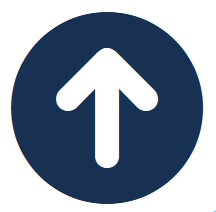
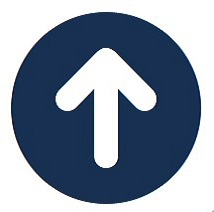
actualizacion general - 11-2-2022

diff --git a/css/main.css b/css/main.css
@@ -105,7 +105,7 @@ li {
 #scrollUp {
   border-radius: 50%;
   bottom: 8em;
-  right: 2em;
+  right: 1.8em;
   width: 4em;
   height: 4em;
   background: url("/src/multimedia/images/upArrow.jpg");
@@ -118,7 +118,7 @@ li {
   -ms-grid-column: 1;
   -ms-grid-column-span: 3;
   grid-area: header;
-  padding: 0.5em;
+  padding: 0.6em 1.5em;
   background: linear-gradient(135deg, #212c72 0%, #22398c 40%, #21459b 100%);
   display: -webkit-box;
   display: -ms-flexbox;
@@ -132,6 +132,11 @@ li {
   /* Extra large devices (large desktops, 1200px and up) */
   /* Large devices (desktops, 992px and up) */
   /* Medium devices (tablets, 768px and up) The navbar toggle appears at this breakpoint */
+}
+
+.header .navbar {
+  padding-top: 0;
+  padding-bottom: 0;
 }
 
 .header .navbar-light .navbar-nav .nav-link:hover {
@@ -192,10 +197,13 @@ li {
   .header #btnResponsive {
     color: #ffffff;
     background-color: #ffffff;
+    -webkit-box-shadow: 2px 2px 4px 1px #444;
+            box-shadow: 2px 2px 4px 1px #444;
+    margin-right: 0.5em;
   }
   .header #btnResponsive:hover {
-    -webkit-box-shadow: 0 0 2em 6px #eb6ee1bd;
-            box-shadow: 0 0 2em 6px #eb6ee1bd;
+    -webkit-box-shadow: 0 0 10px 2px #eb6ee1bd;
+            box-shadow: 0 0 10px 2px #eb6ee1bd;
   }
   .header .navbar-nav .dropdown-menu {
     width: 16em;
@@ -218,9 +226,9 @@ li {
 }
 
 .header .header__logo {
-  max-width: 5em;
-  min-width: 3em;
-  min-height: 3em;
+  max-width: 4em;
+  min-width: 2.6em;
+  min-height: 2.6em;
   margin: auto;
   color: #ffffff;
   -webkit-transition: all 1s ease-in-out;
@@ -234,9 +242,9 @@ li {
 
 @media screen and (max-width: 768px) {
   .header .header__logo {
-    max-width: 4em;
-    min-width: 2em;
-    min-height: 2em;
+    max-width: 3em;
+    min-width: 1.8em;
+    min-height: 1.8em;
   }
 }
 
@@ -602,12 +610,13 @@ li {
   line-height: 1.5em;
   color: #eee;
   margin-top: 1.5em;
-  margin-bottom: 1.5em;
+  margin-bottom: 1em;
 }
 
 .contenedor .sidebar .sidebar__contenedor .sidebar__bio .sidebar__parrafo {
   font-size: .85em;
   line-height: 2em;
+  margin-bottom: 2em;
 }
 
 .contenedor .sidebar .sidebar__menu {
@@ -729,7 +738,7 @@ li {
   display: grid;
   -ms-grid-columns: (1fr)[4];
       grid-template-columns: repeat(4, 1fr);
-  grid-auto-rows: 14em;
+  grid-auto-rows: 16em;
   padding: 1em;
   grid-gap: 1em;
   margin-bottom: 14em;
@@ -741,7 +750,7 @@ li {
   .contenedor__productos .productos .galeria-container {
     -ms-grid-columns: (1fr)[3];
         grid-template-columns: repeat(3, 1fr);
-    grid-auto-rows: 12em;
+    grid-auto-rows: 14em;
     grid-gap: 0.85em;
   }
   .contenedor__productos .productos .galeria-container .galeria__item:nth-child(1) {
@@ -782,7 +791,7 @@ li {
   .contenedor__productos .productos .galeria-container {
     -ms-grid-columns: (1fr)[2];
         grid-template-columns: repeat(2, 1fr);
-    grid-auto-rows: 10em;
+    grid-auto-rows: 12em;
     grid-gap: 0.6em;
   }
   .contenedor__productos .productos .galeria-container .galeria__item:nth-child(1) {
@@ -1393,11 +1402,12 @@ li {
 }
 
 .contenedor__contacto .contacto .itemsContacto--title i {
-  margin-right: 1.5em;
+  margin-right: 1.25em;
+  font-size: 1.25em;
 }
 
 .contenedor__contacto .contacto .itemsContacto--title--redes {
-  font-size: 1.2em;
+  font-size: 1.5em;
   color: #000000;
 }
 

diff --git a/src/paginas/contacto.html b/src/paginas/contacto.html
@@ -105,10 +105,10 @@
                             </h2>
                             <div id="collapseOne" class="accordion-collapse collapse show" aria-labelledby="headingOne"
                                 data-bs-parent="#accordionExample">
-                                <div class="accordion-body">
-                                    <div class="container my-3 mx-auto">
+                                <div class="accordion-body px-1">
+                                    <div class="container my-3 mx-1">
                                         <h3 class="itemsContacto--title"><i class="fas fa-map-marked-alt"></i> Av. Japón
-                                            2230 / CP 5008 - Córdoba / Argentina</h3>
+                                            2230 - CP5008 - Córdoba - Argentina</h3>
                                         <h3 class="itemsContacto--title"><i class="fas fa-phone"></i> Telefono: +54
                                             (0351) 499 5921</h3>
                                         <h3 class="itemsContacto--title"><i class="fas fa-at"></i> prodismo@prodismo.com
@@ -131,8 +131,7 @@
                             </div>
                         </div> <!-- /Datos de Contacto -->
 
-                        <div class="accordion-item">
-                            <!-- Formulario Contacto-->
+                        <div class="accordion-item"><!-- Formulario Contacto-->
                             <h2 class="accordion-header" id="headingOne">
                                 <button class="accordion-button" type="button" data-bs-toggle="collapse"
                                     data-bs-target="#collapseTwo" aria-expanded="false" aria-controls="collapseTwo">
@@ -236,7 +235,7 @@
                                             </div>
 
                                             <div class="form-group">
-                                                <div class="d-grid gap-2 mx-5 m-3">
+                                                <div class="d-grid gap-2 mx-3 m-3">
                                                     <button type="submit"
                                                         class="d-block mx-5 p-2 btn btn-primary">Enviar <i
                                                             class="fas fa-paper-plane"></i></button>

diff --git a/css/parciales/_header.scss b/css/parciales/_header.scss
@@ -3,7 +3,7 @@
 
 .header {
 	grid-area: header;
-	padding: 0.5em;
+	padding: 0.6em 1.5em;
 	background: $colorHeader;
 	display: flex;
 	position: sticky;
@@ -11,6 +11,11 @@
     left: 0;
     z-index: 100;
 	width: 100%;
+
+    .navbar {
+        padding-top: 0;
+        padding-bottom: 0;
+    }
 
     .navbar-light .navbar-nav .nav-link:hover {
         background-image: linear-gradient(180deg, transparent 90%, $colorHoverLink 100%);
@@ -52,7 +57,6 @@
 		.nav-item--oculto {
 				display: none;
 		}
-
     }
 
     @include tablets {
@@ -69,10 +73,12 @@
         #btnResponsive {
             color: $blanco;
             background-color: $blanco;
+            box-shadow: 2px 2px 4px 1px #444;
+            margin-right: 0.5em;
         }
 
         #btnResponsive:hover {
-            box-shadow: 0 0 2em 6px $colorHoverLink;
+            box-shadow: 0 0 10px 2px $colorHoverLink;
         }
 
         .navbar-nav .dropdown-menu {
@@ -95,13 +101,12 @@
             margin-right: -1px;
             background-image: linear-gradient(45deg, transparent 40%, $colorHoverLink 100%);
         }
-        
     }
 	
     .header__logo {
-        max-width: 5em;
-        min-width: 3em;
-        min-height: 3em;
+        max-width: 4em;
+        min-width: 2.6em;
+        min-height: 2.6em;
         margin: auto;
         color: $blanco;
         transition: all 1s ease-in-out;
@@ -111,14 +116,13 @@
         }
 
         @include tablets {
-            max-width: 4em;
-            min-width: 2em;
-            min-height: 2em;
+            max-width: 3em;
+            min-width: 1.8em;
+            min-height: 1.8em;
         }
     }
     
     .header__logo:hover {
         transform: scale(1.2);
     }
-
 }

diff --git a/index.html b/index.html
@@ -229,12 +229,14 @@
 				</a>
 
 				<div class="sidebar__bio">
-					<p class="sidebar__titulo">Somos Prodismo<br>Somos Desafío<br>Somos Tecnología<br>Somos Innovación
-					</p>
+					<p class="sidebar__titulo">Somos Prodismo<br>Somos Innovación</p>
 					<p class="sidebar__parrafo">
 						En Prodismo, impulsamos constantemente la innovación, investigación y desarrollo, en busca de
 						nuevos productos y servicios con tecnología de punta, que brinden soluciones para la
-						industria metalmecanica y en general.
+						industria metalmecánica y en general.
+					</p>
+					<p class="sidebar__titulo">Somos Tecnología<br>Somos Desafío</p>
+					<p class="sidebar__parrafo">
 						Contamos con equipos propios para la búsqueda y prueba incesante de nuevas ideas, exploración de
 						tecnologías de última generación, desarrollo de prototipos, ensayos funcionales. Nuestros
 						técnicos brindan formación especializada a personal interno y a clientes.

diff --git a/css/parciales/productos/_productos.scss b/css/parciales/productos/_productos.scss
@@ -45,14 +45,14 @@
         .galeria-container {
             display: grid;
             grid-template-columns: repeat(4, 1fr);
-            grid-auto-rows: 14em;
+            grid-auto-rows: 16em;
             padding: 1em;
             grid-gap: 1em;
             margin-bottom: 14em;
             
             @include desktops {
                 grid-template-columns: repeat(3, 1fr);
-                grid-auto-rows: 12em;
+                grid-auto-rows: 14em;
                 grid-gap: 0.85em;
 
                 .galeria__item:nth-child(1) {
@@ -88,7 +88,7 @@
             
             @include phones {
                 grid-template-columns: repeat(2, 1fr);
-                grid-auto-rows: 10em;
+                grid-auto-rows: 12em;
                 grid-gap: 0.6em;
 
                 .galeria__item:nth-child(1) {

diff --git a/css/parciales/index/_contenedor.scss b/css/parciales/index/_contenedor.scss
@@ -283,12 +283,13 @@
                 line-height: 1.5em;
                 color: #eee;
                 margin-top: 1.5em;
-                margin-bottom: 1.5em; 
+                margin-bottom: 1em;
             }
 
             .sidebar__parrafo {
                 font-size: .85em; 
                 line-height: 2em;
+                margin-bottom: 2em; 
             }
         }
 

diff --git a/css/parciales/contacto/_contacto.scss b/css/parciales/contacto/_contacto.scss
@@ -35,12 +35,13 @@
             margin-bottom: 2em;
             
             i {
-                margin-right: 1.5em;
+                margin-right: 1.25em;
+                font-size: 1.25em;
             }
         }
 
         .itemsContacto--title--redes {
-            font-size: 1.2em;
+            font-size: 1.5em;
             color: $negro;
         }
 

diff --git a/css/parciales/_general.scss b/css/parciales/_general.scss
@@ -57,7 +57,7 @@ li {
 #scrollUp {
 	border-radius: 50%;
 	bottom: 8em;
-	right: 2em;
+	right: 1.8em;
 	width: 4em;
 	height: 4em;
 	background: url("/src/multimedia/images/upArrow.jpg");
